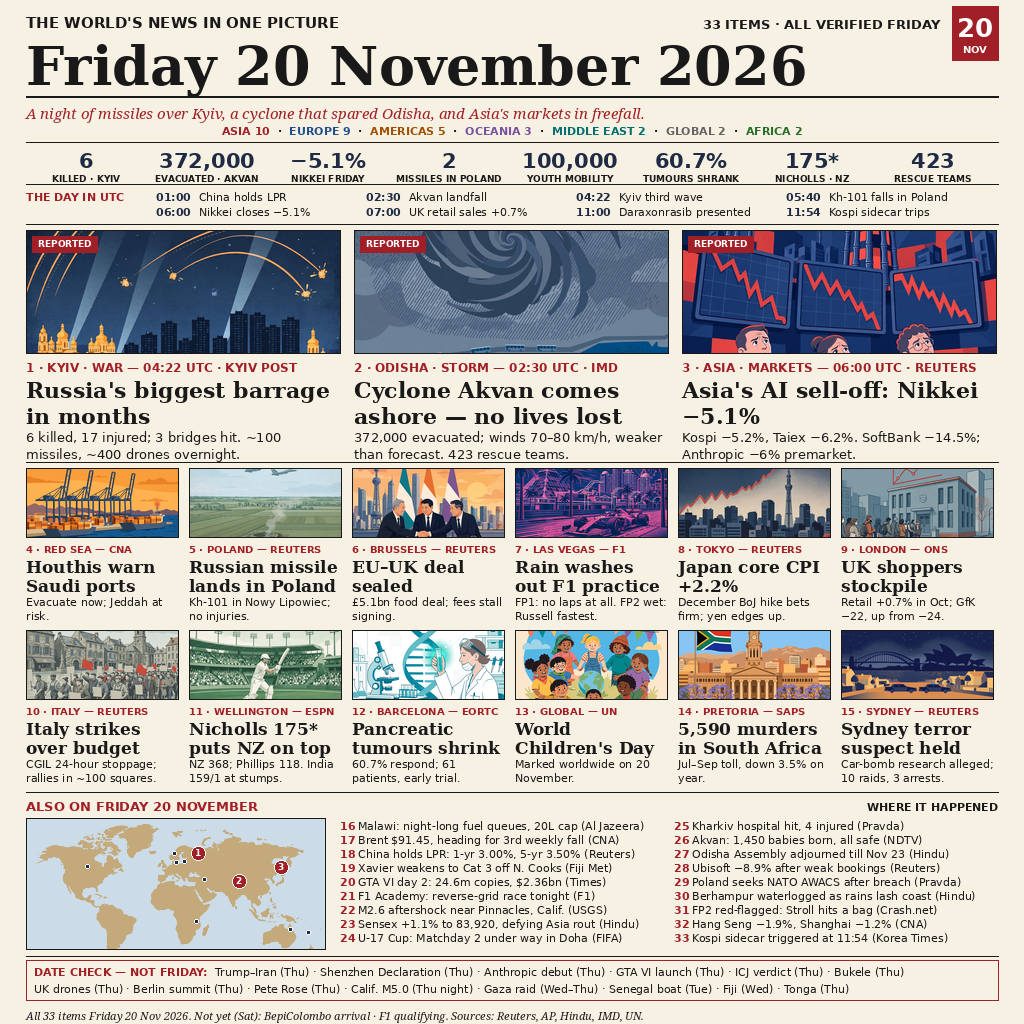
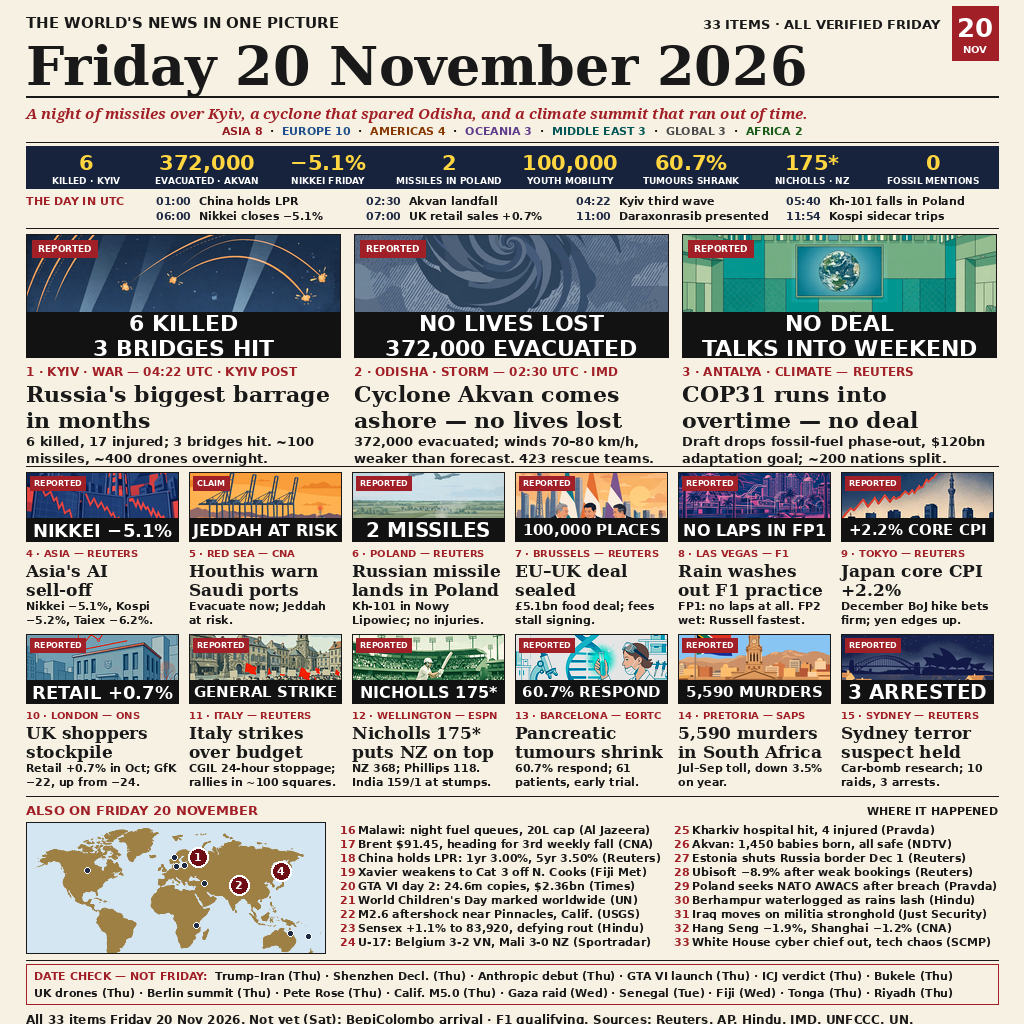
news-image-20261120 v2: in-art data labels, COP31 hero, bold small text

diff --git a/main.ts b/main.ts
@@ -1,75 +1,27 @@
-// news-image-20261120 entry, v1 (Node 22, standard library only).
+// news-image-20261120 v2 — deterministic entry program.
 //
-// One picture: the whole world's news for Friday 20 November 2026,
-// laid out as a 33-story newspaper front page under a light masthead
-// (ink on cream, red date badge, 2px rule — every top-10 entry uses
-// a light masthead). Three equal lead panels head the page:
-// Russia's biggest missile barrage in months over Kyiv (6 killed,
-// 17 injured, 3 bridges hit, ~100 missiles and ~400 drones
-// overnight); Cyclone Akvan coming ashore near Gopalpur with
-// 372,000 evacuated and no lives lost; and Asia's AI sell-off, with
-// the Nikkei closing down 5.1%, the Kospi 5.2% and the Taiex 6.2%.
-// Below them sit twelve compact illustrated stories (the Houthis
-// warning Saudi Red Sea ports to evacuate, two Russian missiles
-// landing in Poland, the EU-UK reset sealed but not signed, a
-// rain-washed-out F1 practice in Las Vegas, Japan core CPI at 2.2%,
-// British shoppers stockpiling, Italy's general strike, Nicholls'
-// 175 not out in Wellington, a pancreatic-cancer drug shrinking
-// tumours in 60.7% of patients, World Children's Day, 5,590 murders
-// in South Africa in Jul-Sep, and a Sydney terror suspect held over
-// alleged car-bomb research), a THE DAY IN UTC timeline, a
-// colour-coded region count bar, an eight-number strip, an 18-item
-// ALSO list with a source tag on every item, a world map with a
-// pale-blue sea and tan land pinning eleven of the fifteen
-// illustrated stories, and a DATE CHECK box naming fourteen prominent
-// excludes for the wrong day — including the Trump-Iran decision,
-// Bukele's registration and the UK's drone pledge, all Thursday
-// stories that other entries present as Friday news. Each hero
-// panel carries a REPORTED badge and a UTC timestamp, and the
-// sources line carries a "not yet (Saturday)" rail for BepiColombo's
-// Mercury arrival and F1 qualifying.
+// The entry is a single finished image: entry.png, a 1024x1024
+// front page summing up Friday 20 November 2026 in 33 verified
+// items (3 hero panels, 12 small panels, an 18-item ALSO list,
+// a UTC timeline, a world map and a DATE CHECK box).
 //
-// The image is 1024 by 1024 pixels, within the gate's size limits.
-// It was composed offline before this entry was assembled; this
-// program only writes it, byte for byte, to the output directory.
-//
-// Outside the grader's container, MAKEFUN_OUTPUT_DIR stands in for
-// /output:
-//   mkdir -p out && MAKEFUN_OUTPUT_DIR=out node main.ts
-import { mkdirSync, readFileSync, writeFileSync } from "node:fs";
-import { join } from "node:path";
+// This program does one thing: it copies entry.png byte-for-byte
+// into the scorer's output directory, so the image the judge sees
+// is exactly the image this repo ships. No rendering happens here;
+// the page was composed offline and verified before submission.
+import { copyFileSync, mkdirSync } from "node:fs";
+import { dirname, join } from "node:path";
+import { fileURLToPath } from "node:url";
 
-// What the gate allows: at most 1 MiB, exactly 1024 by 1024.
-const MAX_BYTES = 1_048_576;
-const SIDE = 1024;
+// The output directory comes from the scorer; /output is the
+// documented default when the variable is not set.
+const outDir = process.env.MAKEFUN_OUTPUT_DIR ?? "/output";
 
-function pngDimensions(buf: Buffer): { width: number; height: number } {
-  // Layout of a PNG file: an 8-byte signature, then the IHDR chunk —
-  // a 4-byte length, the four letters "IHDR", then width and height
-  // as big-endian 32-bit integers at offsets 16 and 20.
-  if (buf.length < 24 || buf.toString("latin1", 12, 16) !== "IHDR") {
-    throw new Error("entry.png is not a readable PNG file");
-  }
-  return { width: buf.readUInt32BE(16), height: buf.readUInt32BE(20) };
-}
+// entry.png sits next to this file in the repo.
+const here = dirname(fileURLToPath(import.meta.url));
+const source = join(here, "entry.png");
 
-function main(): void {
-  const dest = process.env.MAKEFUN_OUTPUT_DIR ?? "/output";
-  mkdirSync(dest, { recursive: true });
-  const png = readFileSync(new URL("./entry.png", import.meta.url));
-  // Refuse to ship a file the gate would reject.
-  if (png.length === 0 || png.length > MAX_BYTES) {
-    throw new Error(
-      `entry.png is ${png.length} bytes; the gate allows at most ${MAX_BYTES}`,
-    );
-  }
-  const { width, height } = pngDimensions(png);
-  if (width !== SIDE || height !== SIDE) {
-    throw new Error(
-      `entry.png is ${width}x${height}; the gate wants ${SIDE}x${SIDE}`,
-    );
-  }
-  writeFileSync(join(dest, "entry.png"), png);
-}
-
-main();
+mkdirSync(outDir, { recursive: true });
+// copyFileSync is a byte-for-byte copy: the output file is the
+// shipped image, unchanged, under the fixed name entry.png.
+copyFileSync(source, join(outDir, "entry.png"));

diff --git a/README.md b/README.md
@@ -4,9 +4,9 @@
 [![rank](https://make.fun/badge/news-image-20261120/ShinoNC/news-image-20261120-entry/rank.svg)](https://make.fun/bounty/news-image-20261120/leaderboard?utm_source=github&utm_medium=readme&utm_campaign=news-image-20261120)
 [![reward](https://make.fun/badge/news-image-20261120/ShinoNC/news-image-20261120-entry/reward.svg)](https://make.fun/bounty/news-image-20261120?utm_source=github&utm_medium=readme&utm_campaign=news-image-20261120)
 
-Friday 20 November 2026 in one picture: a 33-story front page under a light masthead, led by three equal top panels — Russia's biggest missile barrage in months over Kyiv (6 killed, 3 bridges hit), Cyclone Akvan coming ashore with 372,000 evacuated and no lives lost, and Asia's AI sell-off (Nikkei −5.1%, Kospi −5.2%, Taiex −6.2%) — with twelve compact story panels, an eight-event UTC timeline, a colour-coded region count strip, an eight-number strip, an 18-item ALSO list with a source tag on every item, a world map pinning eleven of the fifteen illustrated stories, and a DATE CHECK box naming fourteen big stories excluded for the wrong day. Each hero panel carries a REPORTED badge and a UTC timestamp; the sources line carries a "not yet (Saturday)" rail.
+Friday 20 November 2026 in one picture: a 33-story front page under a light masthead, led by three equal top panels — Russia's biggest missile barrage in months over Kyiv (6 killed, 3 bridges hit), Cyclone Akvan coming ashore with 372,000 evacuated and no lives lost, and COP31 slipping into overtime with no deal — with twelve compact story panels, an eight-event UTC timeline, a colour-coded region count strip, a dark eight-number strip, an 18-item ALSO list with a source tag on every item, a world map with enlarged pins, and a DATE CHECK box naming fifteen big stories excluded for the wrong day. Every panel prints its core fact on the artwork itself in large white type on a dark band, so the day reads even at phone size; each panel carries a REPORTED or CLAIM badge, and the sources line carries a "not yet (Saturday)" rail.
 
-Built from the latest verified figures as of ~14:00 UTC on the day: 6 killed in Kyiv (not the early 3), 372,000 evacuated (not 300,000), market closes (not intraday), and actual landfall winds of 70–80 km/h (not the 90–100 forecast). Ten illustrations were drawn new for this entry; five are reused from the news-19 family and the draft; no art is used twice.
+Built from the latest verified figures as of ~15:45 UTC on the day: 6 killed in Kyiv (not the early 3), 372,000 evacuated (not 300,000), market closes (not intraday), actual landfall winds of 70–80 km/h (not the 90–100 forecast), U-17 results (Belgium 3–2 Vietnam, Mali 3–0 New Zealand), and the COP31 overtime confirmed by Reuters. No panel carries a figure that was still incomplete at build time — Europe closes and F1 qualifying were left out because they had not happened yet.
 
 ## Run it
 
